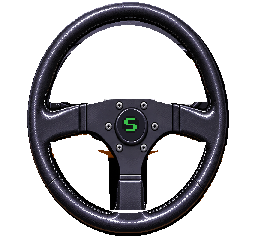
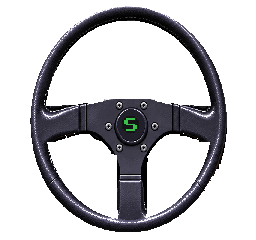
Serpe V10: volante sem pixels sobrando (aro pela borda real, raios justos) e retrovisor esquerdo completo nas telas largas
Claude-Session: https://claude.ai/code/session_01MLD9VR7gkmY4w6a9beZcp6

diff --git a/tools/ref/viper_cockpit.py b/tools/ref/viper_cockpit.py
@@ -23,8 +23,8 @@ ROWS, EXT, PAD = 124, 76, 102
 WTOP, WROWS = 14, 240
 RIM_OUT, RIM_IN = (336, 342), (268, 274)
 # raios laterais, miolo e raio de baixo (coordenadas da arte)
-HUB = [(352, 446), (470, 444), (560, 436), (720, 436), (810, 444), (930, 446), (930, 560), (820, 560),
-       (705, 600), (700, 760), (580, 760), (575, 600), (460, 560), (352, 560)]
+HUB = [(352, 459), (470, 453), (560, 436), (720, 436), (810, 453), (930, 459), (930, 560), (820, 560),
+       (705, 600), (700, 790), (606, 790), (603, 600), (460, 560), (352, 560)]
 MIRROR = (0, 160, 70, 320)
 TEXT = (1440, 370, 1660, 470)  # letreiro da marca no painel
 # mostradores grandes: centro, raio do fundo e o retângulo do texto que fica (MPH, RPM x1000)
@@ -100,13 +100,23 @@ def main():
     xr = np.where(xs < 0, -xs, np.clip(xs, 0, W - 1))  # reflete a porta para a esquerda
     d_rgb = sample(dash, xr, ys)
     d_al = ~sample(sky, xr, ys)
-    d_al[:, xs < 0] &= (ys[:, None] > 330).repeat((xs < 0).sum(), 1)
+    # à esquerda da arte só a porta (de baixo) e o retrovisor externo, que a arte corta na borda:
+    # o reflexo completa a carcaça e o espelho (o espelho fica vidro, o jogo mostra a vista nele)
+    mir = np.zeros((H, W), bool)
+    mx0, my0, mx1, my1 = MIRROR
+    housing = (rgb[..., 0] > 90) & (rgb[..., 0] > rgb[..., 1] * 1.5) & (rgb[..., 0] > rgb[..., 2] * 1.5)
+    mir[my0:my1, mx0:mx1] = (housing | glass)[my0:my1, mx0:mx1]
+    mir = cv2.morphologyEx(mir.astype(np.uint8), cv2.MORPH_CLOSE, np.ones((9, 9), np.uint8)).astype(bool)
+    mir = cv2.dilate(mir.astype(np.uint8), np.ones((5, 5), np.uint8)).astype(bool)
+    mir_s = sample(mir, xr, ys)
+    left = xs < 0
+    d_al[:, left] = ((ys[:, None] > 316) | mir_s)[:, left] & ~sample(glass, xr, ys)[:, left]
     Image.fromarray(np.dstack([d_rgb, d_al.astype(np.uint8) * 255]), 'RGBA').save(os.path.join(out, 'viper-dash.png'))
     xs, ys = grid(y0d - EXT * PXH, EXT)
     xr = np.where(xs < 0, -xs, np.clip(xs, 0, W - 1))
     t_rgb = sample(dash, xr, ys)
     t_al = ~sample(sky, xr, ys)
-    t_al[:, xs < 0] = False
+    t_al[:, xs < 0] = (sample(mir, xr, ys) & ~sample(glass, xr, ys))[:, xs < 0]
     Image.fromarray(np.dstack([t_rgb, t_al.astype(np.uint8) * 255]), 'RGBA').save(os.path.join(out, 'viper-top.png'))
 
     # volante
@@ -118,7 +128,54 @@ def main():
     wr = ww.astype(int)
     orange = (wr[..., 0] > wr[..., 2] + 60) & (wr[..., 0] > 120)
     orange &= np.hypot(xx - 650, yy - 512) > 60  # a cobra vermelha do miolo é volante (vira o emblema)
-    wheel = (e_out & ~e_in & ~orange) | (hub.astype(bool) & e_out & ~orange)
+    # aro pela borda de verdade, ângulo a ângulo: em cada raio, o trecho contínuo escuro do couro
+    # (o painel atrás é mais claro e azulado, os bancos laranja, o vidro claro)
+    lumw = cv2.medianBlur(wr.mean(axis=2).astype(np.uint8), 5).astype(float)
+    dark = (lumw < 47)
+    th = np.radians(np.arange(0, 360, 0.25))
+    ss = np.linspace(0.70, 1.08, 380)
+    s_in = np.zeros(len(th)); s_out = np.zeros(len(th))
+    for i, t in enumerate(th):
+        px_ = np.clip((PIV[0] + np.cos(t) * RIM_OUT[0] * ss).astype(int), 0, W - 1)
+        py_ = np.clip((PIV[1] + np.sin(t) * RIM_OUT[1] * ss).astype(int), 0, H - 1)
+        d = dark[py_, px_]
+        k0 = int(np.argmin(np.abs(ss - 0.9)))
+        if not d[k0]:
+            near_ = np.nonzero(d)[0]
+            k0 = near_[np.argmin(np.abs(near_ - k0))] if len(near_) else k0
+        a_ = k0
+        while a_ > 0 and d[a_ - 1]:
+            a_ -= 1
+        b_ = k0
+        while b_ < len(ss) - 1 and d[b_ + 1]:
+            b_ += 1
+        s_in[i], s_out[i] = ss[a_], ss[b_]
+    # limites: o aro tem a grossura conhecida (não deixa o painel escuro grudado esticar o trecho)
+    s_in = np.clip(s_in, 0.79, 0.84)
+    s_out = np.clip(s_out, 0.97, 1.02)
+    def median_wrap(v, k):
+        pad = np.concatenate([v[-k:], v, v[:k]])
+        win = np.lib.stride_tricks.sliding_window_view(pad, 2 * k + 1)
+        return np.median(win, axis=1)
+    s_in = median_wrap(s_in, 15); s_out = median_wrap(s_out, 15)
+    # o aro é uma elipse: ajusta uma elipse (inclinada) a cada borda, sem os desvios locais
+    # (sombras, alavancas e o painel escuro encostados no aro); fica um tiquinho para dentro
+    def fit(sv, k):
+        pts = np.stack([PIV[0] + np.cos(th) * RIM_OUT[0] * sv, PIV[1] + np.sin(th) * RIM_OUT[1] * sv], 1).astype(np.float32)
+        (ex, ey), (ea, eb), eang = cv2.fitEllipse(pts)
+        m = np.zeros((H, W), np.uint8)
+        cv2.ellipse(m, ((ex, ey), (ea * k, eb * k), eang), 1, -1)
+        return m.astype(bool)
+    outer = fit(s_out, 0.992)
+    inner = fit(s_in, 1.012)
+    rim = outer & ~inner
+    sr = np.where(outer, 0.0, 2.0)
+    idx = np.zeros((H, W), int)
+    s_out = np.ones(len(th))
+    orange |= (wr[..., 0] > wr[..., 2] + 25) & (wr[..., 0] > wr[..., 1] + 8) & (np.hypot(xx - 650, yy - 512) > 60)
+    wheel = (rim & ~orange) | (hub.astype(bool) & (sr <= s_out[idx]) & ~orange)
+    e_out = outer
+    e_in = inner
     # o fundo creme dos mostradores que aparece acima dos raios não é volante
     wl = wr.mean(axis=2)
     creamy = (wl > 165) & ((wr.max(axis=2) - wr.min(axis=2)) < 45) & (yy < 450) & hub.astype(bool) & ((xx < 560) | (xx > 730))
@@ -133,6 +190,15 @@ def main():
     n, lab, st, _ = cv2.connectedComponentsWithStats(wheel.astype(np.uint8), 8)
     if n > 1:
         wheel = lab == 1 + np.argmax(st[1:, cv2.CC_STAT_AREA])
+    # tiras finas grudadas por pontes estreitas (fundo escuro do assoalho por fora do aro): corta as
+    # pontes (erosão), fica com a peça grande e reconstrói só dentro dela
+    core = cv2.erode(wheel.astype(np.uint8), np.ones((9, 9), np.uint8))
+    n, lab, st, _ = cv2.connectedComponentsWithStats(core, 4)
+    if n > 1:
+        rec = (lab == 1 + np.argmax(st[1:, cv2.CC_STAT_AREA])).astype(np.uint8)
+        for _ in range(6):
+            rec = cv2.dilate(rec, np.ones((3, 3), np.uint8)) & wheel.astype(np.uint8)
+        wheel = rec.astype(bool)
     wart = ww.copy()
     # cobra do miolo: disco escuro liso (o emblema da Serpe entra por brand_badges.py)
     hx, hy = 650, 512
